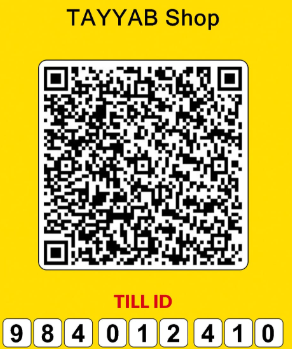
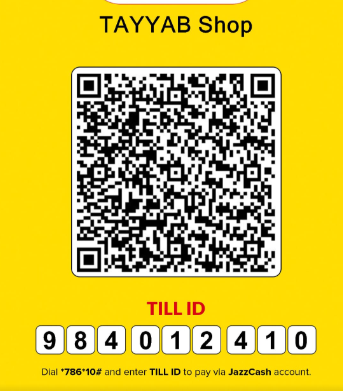
push after adding qr code with more details

diff --git a/website/src/components/checkout/payment-qr-panel.tsx b/website/src/components/checkout/payment-qr-panel.tsx
@@ -1,0 +1,84 @@
+"use client";
+
+import Image from "next/image";
+import { Copy } from "lucide-react";
+import { toast } from "sonner";
+import { PAYMENT_DETAILS, PAYMENT_QR_SRC } from "@/lib/constants";
+import type { PaymentMethod } from "@/types";
+
+function CopyRow({ label, value }: { label: string; value: string }) {
+  const copy = async () => {
+    try {
+      await navigator.clipboard.writeText(value);
+      toast.success(`${label} copied`);
+    } catch {
+      toast.error("Could not copy — please copy manually");
+    }
+  };
+
+  return (
+    <div className="flex items-start justify-between gap-3 rounded-lg border border-zinc-800 bg-black/40 px-3 py-2.5">
+      <div className="min-w-0">
+        <p className="text-xs text-zinc-500">{label}</p>
+        <p className="break-all font-mono text-sm font-medium text-white">{value}</p>
+      </div>
+      <button
+        type="button"
+        onClick={copy}
+        className="flex h-10 w-10 shrink-0 items-center justify-center rounded-md text-zinc-400 hover:bg-zinc-900 hover:text-orange-400"
+        aria-label={`Copy ${label}`}
+      >
+        <Copy className="h-4 w-4" />
+      </button>
+    </div>
+  );
+}
+
+export function PaymentQrPanel({ method }: { method: PaymentMethod }) {
+  if (method === "cod") return null;
+
+  const appLabel =
+    method === "jazzcash"
+      ? "JazzCash"
+      : method === "easypaisa"
+        ? "EasyPaisa"
+        : "bank";
+
+  return (
+    <div className="rounded-xl border border-orange-500/30 bg-orange-500/5 p-4">
+      <p className="text-sm font-semibold text-orange-300">How to pay</p>
+      <p className="mt-1 text-sm text-zinc-400">
+        On another device, scan the QR with your {appLabel} / bank app. On this
+        phone, use the details below (tap copy). Pay the order total, then place
+        your order.
+      </p>
+
+      <div className="relative mx-auto mt-4 aspect-[3/4] w-full max-w-[260px] overflow-hidden rounded-lg bg-yellow-400">
+        <Image
+          src={PAYMENT_QR_SRC}
+          alt="Payment QR code"
+          fill
+          className="object-contain"
+          sizes="260px"
+          priority
+        />
+      </div>
+
+      <div className="mt-4 space-y-2">
+        <CopyRow label="Till ID" value={PAYMENT_DETAILS.tillId} />
+        <CopyRow label="Raast ID" value={PAYMENT_DETAILS.raastId} />
+        <CopyRow label="IBAN" value={PAYMENT_DETAILS.iban} />
+        <CopyRow label="JazzCash number" value={PAYMENT_DETAILS.jazzcashNumber} />
+        <CopyRow label="Account name" value={PAYMENT_DETAILS.accountName} />
+      </div>
+
+      <p className="mt-3 text-xs leading-relaxed text-zinc-500">
+        JazzCash USSD: dial{" "}
+        <span className="font-mono text-zinc-300">{PAYMENT_DETAILS.jazzcashUssd}</span>{" "}
+        and enter Till ID{" "}
+        <span className="font-mono text-zinc-300">{PAYMENT_DETAILS.tillId}</span> to
+        pay.
+      </p>
+    </div>
+  );
+}

diff --git a/website/src/components/checkout/checkout-form.tsx b/website/src/components/checkout/checkout-form.tsx
@@ -1,7 +1,6 @@
 "use client";
 
 import Link from "next/link";
-import Image from "next/image";
 import { useRouter } from "next/navigation";
 import { useEffect, useMemo, useState } from "react";
 import { useForm } from "react-hook-form";
@@ -21,14 +20,10 @@ import {
   SelectValue,
 } from "@/components/ui/select";
 import { Separator } from "@/components/ui/separator";
+import { PaymentQrPanel } from "@/components/checkout/payment-qr-panel";
 import { useAuth } from "@/context/auth-context";
 import { useCart } from "@/context/cart-context";
-import {
-  LAST_ORDER_KEY,
-  PAYMENT_METHODS,
-  PAYMENT_QR_SRC,
-  PAYMENT_TILL_ID,
-} from "@/lib/constants";
+import { LAST_ORDER_KEY, PAYMENT_METHODS } from "@/lib/constants";
 import { formatPrice } from "@/lib/utils";
 import { createOrder, getLocations, getSettings } from "@/services/api";
 import type { Location, PaymentMethod, Settings } from "@/types";
@@ -299,36 +294,7 @@ export function CheckoutForm({ guestMode = false }: CheckoutFormProps) {
             {(paymentMethod === "easypaisa" ||
               paymentMethod === "jazzcash" ||
               paymentMethod === "bank") && (
-              <div className="rounded-xl border border-orange-500/30 bg-orange-500/5 p-4">
-                <p className="text-sm font-semibold text-orange-300">
-                  Scan &amp; pay
-                </p>
-                <p className="mt-1 text-sm text-zinc-400">
-                  Open your{" "}
-                  {paymentMethod === "bank"
-                    ? "bank"
-                    : paymentMethod === "jazzcash"
-                      ? "JazzCash"
-                      : "EasyPaisa"}{" "}
-                  app, scan this QR, pay the order total, then place your order.
-                </p>
-                <div className="relative mx-auto mt-4 aspect-[3/4] w-full max-w-[280px] overflow-hidden rounded-lg bg-yellow-400">
-                  <Image
-                    src={PAYMENT_QR_SRC}
-                    alt="Payment QR code"
-                    fill
-                    className="object-contain"
-                    sizes="280px"
-                    priority
-                  />
-                </div>
-                <p className="mt-3 text-center text-sm text-zinc-300">
-                  Till ID:{" "}
-                  <span className="font-mono font-semibold tracking-wider text-white">
-                    {PAYMENT_TILL_ID}
-                  </span>
-                </p>
-              </div>
+              <PaymentQrPanel method={paymentMethod} />
             )}
           </section>
         </div>

diff --git a/website/src/lib/constants.ts b/website/src/lib/constants.ts
@@ -14,19 +14,19 @@ export const PAYMENT_METHODS = [
   {
     id: "easypaisa" as const,
     label: "EasyPaisa",
-    description: "Scan QR and pay with EasyPaisa",
+    description: "QR or transfer using Raast / JazzCash details",
     showQr: true,
   },
   {
     id: "jazzcash" as const,
     label: "JazzCash",
-    description: "Scan QR and pay with JazzCash",
+    description: "QR, Till ID, or JazzCash number",
     showQr: true,
   },
   {
     id: "bank" as const,
     label: "Other Bank Payments",
-    description: "Scan QR and pay from any bank app",
+    description: "Pay via IBAN / Raast from any bank",
     showQr: true,
   },
   {
@@ -37,9 +37,16 @@ export const PAYMENT_METHODS = [
   },
 ] as const;
 
-/** Shared QR for EasyPaisa / JazzCash / bank transfer (replace file when client provides theirs). */
+/** Shared QR + manual pay details (replace when client provides theirs). */
 export const PAYMENT_QR_SRC = "/payments/payment-qr.png";
-export const PAYMENT_TILL_ID = "984012410";
+export const PAYMENT_DETAILS = {
+  tillId: "984012410",
+  raastId: "01099132681",
+  iban: "PK79JCMA2807921099132681",
+  jazzcashNumber: "03267274986",
+  accountName: "Tayyab Shahzad",
+  jazzcashUssd: "*786*10#",
+} as const;
 
 export const CART_STORAGE_KEY = "krunchies_cart";
 export const AUTH_STORAGE_KEY = "krunchies_auth";
